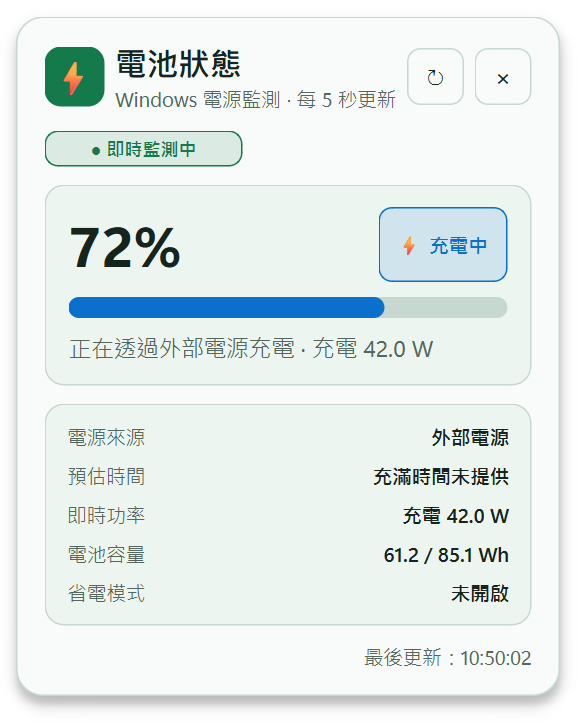
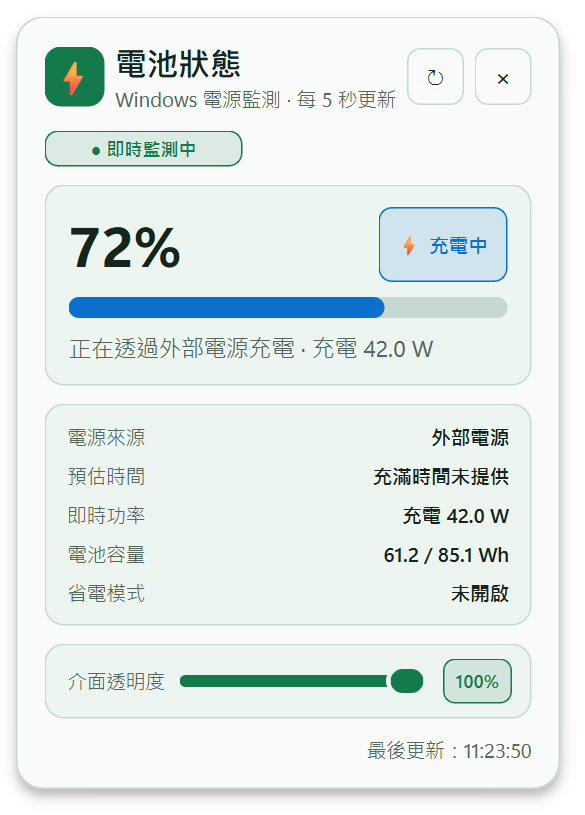
feat: add inline battery widget opacity control

diff --git a/src/battery_usage_widget/widget.py b/src/battery_usage_widget/widget.py
@@ -20,6 +20,7 @@ from PySide6.QtWidgets import (
     QMenu,
     QProgressBar,
     QSizePolicy,
+    QSlider,
     QSystemTrayIcon,
     QToolButton,
     QVBoxLayout,
@@ -30,6 +31,9 @@ from battery_usage_widget.autostart import AutostartManager
 from battery_usage_widget.icon_factory import create_battery_icon
 from battery_usage_widget.models import BatterySnapshot, BatteryState
 from battery_usage_widget.theme import build_stylesheet, is_dark_theme
+
+MIN_OPACITY_PERCENT = 35
+MAX_OPACITY_PERCENT = 100
 
 
 def format_time(seconds: int | None) -> str:
@@ -145,6 +149,7 @@ class FloatingBatteryWidget(QWidget):
         self._snapshot: BatterySnapshot | None = None
         self._quitting = False
         self._position_initialized = False
+        self._opacity_percent = self._load_opacity_setting()
 
         self.setObjectName("FloatingBatteryWidget")
         self.setWindowTitle("電池用量與充電狀態")
@@ -269,6 +274,40 @@ class FloatingBatteryWidget(QWidget):
         self.saver_value = self._add_detail(details_layout, 4, "省電模式")
         self.card_layout.addWidget(details_card)
 
+        transparency_card = QFrame()
+        transparency_card.setObjectName("TransparencyCard")
+        transparency_layout = QHBoxLayout(transparency_card)
+        transparency_layout.setContentsMargins(14, 9, 12, 9)
+        transparency_layout.setSpacing(10)
+        transparency_label = QLabel("介面透明度")
+        transparency_label.setObjectName("TransparencyLabel")
+        self.opacity_slider = QSlider(Qt.Orientation.Horizontal)
+        self.opacity_slider.setRange(MIN_OPACITY_PERCENT, MAX_OPACITY_PERCENT)
+        self.opacity_slider.setValue(self._opacity_percent)
+        self.opacity_slider.setSingleStep(5)
+        self.opacity_slider.setPageStep(10)
+        self.opacity_slider.setTracking(True)
+        self.opacity_slider.setMinimumWidth(125)
+        self.opacity_slider.setMinimumHeight(30)
+        self.opacity_slider.setToolTip("35% 較透明；100% 完全不透明")
+        self.opacity_slider.setAccessibleName("電池狀態介面透明度")
+        self.opacity_slider.setAccessibleDescription(
+            f"可調整為 {MIN_OPACITY_PERCENT}% 到 {MAX_OPACITY_PERCENT}%"
+        )
+        transparency_label.setBuddy(self.opacity_slider)
+        self.opacity_value_label = QLabel(f"{self._opacity_percent}%")
+        self.opacity_value_label.setObjectName("TransparencyValue")
+        self.opacity_value_label.setMinimumWidth(46)
+        self.opacity_value_label.setAlignment(Qt.AlignmentFlag.AlignCenter)
+        self.opacity_value_label.setAccessibleName("目前介面透明度")
+        transparency_layout.addWidget(transparency_label)
+        transparency_layout.addWidget(self.opacity_slider, 1)
+        transparency_layout.addWidget(self.opacity_value_label)
+        self.card_layout.addWidget(transparency_card)
+        self.opacity_slider.valueChanged.connect(
+            lambda value: self._set_opacity_percent(value, persist=True)
+        )
+
         self.updated_label = QLabel("尚未取得資料")
         self.updated_label.setObjectName("Metadata")
         self.updated_label.setAlignment(Qt.AlignmentFlag.AlignRight)
@@ -279,12 +318,18 @@ class FloatingBatteryWidget(QWidget):
         self._save_position_timer.setInterval(250)
         self._save_position_timer.timeout.connect(self._save_geometry)
 
+        self._opacity_sync_timer = QTimer(self)
+        self._opacity_sync_timer.setSingleShot(True)
+        self._opacity_sync_timer.setInterval(300)
+        self._opacity_sync_timer.timeout.connect(self.settings.sync)
+
         self.tray_icon: QSystemTrayIcon | None = None
         self.autostart_action: QAction | None = None
         if enable_tray and QSystemTrayIcon.isSystemTrayAvailable():
             self._create_tray()
 
         self._apply_theme()
+        self._set_opacity_percent(self._opacity_percent, persist=False)
         QGuiApplication.styleHints().colorSchemeChanged.connect(lambda _scheme: self._apply_theme())
 
     @staticmethod
@@ -312,6 +357,9 @@ class FloatingBatteryWidget(QWidget):
     def prepare_quit(self) -> None:
         self._quitting = True
         self._save_geometry()
+        if self._opacity_sync_timer.isActive():
+            self._opacity_sync_timer.stop()
+            self.settings.sync()
         if self.tray_icon:
             self.tray_icon.hide()
 
@@ -402,6 +450,7 @@ class FloatingBatteryWidget(QWidget):
 
     def showEvent(self, event: QShowEvent) -> None:
         super().showEvent(event)
+        self.setWindowOpacity(self._opacity_percent / 100)
         if not self._position_initialized:
             self._restore_or_position()
             self._position_initialized = True
@@ -461,6 +510,31 @@ class FloatingBatteryWidget(QWidget):
                 self.autostart_action.setChecked(not enabled)
                 self.autostart_action.blockSignals(False)
             self.set_error(f"無法變更自動啟動設定：{exc}")
+
+    def _load_opacity_setting(self) -> int:
+        value = self.settings.value("appearance/opacity_percent", MAX_OPACITY_PERCENT)
+        try:
+            parsed = int(value)
+        except (TypeError, ValueError):
+            parsed = MAX_OPACITY_PERCENT
+        return max(MIN_OPACITY_PERCENT, min(MAX_OPACITY_PERCENT, parsed))
+
+    def _set_opacity_percent(self, opacity_percent: int, *, persist: bool) -> None:
+        next_opacity = max(
+            MIN_OPACITY_PERCENT,
+            min(MAX_OPACITY_PERCENT, int(opacity_percent)),
+        )
+        self._opacity_percent = next_opacity
+        if self.opacity_slider.value() != next_opacity:
+            self.opacity_slider.blockSignals(True)
+            self.opacity_slider.setValue(next_opacity)
+            self.opacity_slider.blockSignals(False)
+        self.opacity_value_label.setText(f"{next_opacity}%")
+        self.opacity_value_label.setAccessibleDescription(f"目前為 {next_opacity}%")
+        self.setWindowOpacity(next_opacity / 100)
+        if persist:
+            self.settings.setValue("appearance/opacity_percent", next_opacity)
+            self._opacity_sync_timer.start()
 
     def _update_tray_tooltip(self) -> None:
         if not self.tray_icon or self._snapshot is None:

diff --git a/tests/test_battery_widget.py b/tests/test_battery_widget.py
@@ -2,11 +2,15 @@ from __future__ import annotations
 
 from datetime import UTC, datetime
 
-from PySide6.QtCore import QSettings, Qt
+import pytest
+from PySide6.QtCore import QPoint, QSettings, Qt
+from PySide6.QtWidgets import QStyle, QStyleOptionSlider
 
 from battery_usage_widget.autostart import VALUE_NAME, AutostartManager
 from battery_usage_widget.models import BatterySnapshot, BatteryState
 from battery_usage_widget.widget import (
+    MAX_OPACITY_PERCENT,
+    MIN_OPACITY_PERCENT,
     FloatingBatteryWidget,
     format_capacity,
     format_power,
@@ -99,6 +103,70 @@ def test_widget_distinguishes_charging_and_no_battery(qtbot, tmp_path) -> None:
     assert widget.percent_label.text() == "--%"
     assert widget.state_badge.text() == "○ 未偵測到電池"
     assert "沒有偵測到" in widget.summary_label.text()
+
+
+def test_inline_opacity_control_updates_and_persists(qtbot, tmp_path) -> None:
+    settings_path = tmp_path / "settings.ini"
+    settings = QSettings(str(settings_path), QSettings.Format.IniFormat)
+    settings.setValue("appearance/opacity_percent", 70)
+    autostart = AutostartManager(FakeRegistry(), executable="battery.exe", frozen=False)
+    widget = FloatingBatteryWidget(settings, autostart, enable_tray=False)
+    qtbot.addWidget(widget)
+    widget.show()
+
+    assert widget.opacity_slider.isVisible()
+    assert widget.opacity_slider.minimum() == MIN_OPACITY_PERCENT
+    assert widget.opacity_slider.maximum() == MAX_OPACITY_PERCENT
+    assert widget.opacity_slider.value() == 70
+    assert widget.opacity_value_label.text() == "70%"
+    assert widget.windowOpacity() == pytest.approx(0.7, abs=1 / 255)
+    assert widget.opacity_slider.accessibleName() == "電池狀態介面透明度"
+
+    widget.opacity_slider.setValue(55)
+    assert widget.opacity_value_label.text() == "55%"
+    assert widget.windowOpacity() == pytest.approx(0.55, abs=1 / 255)
+    assert settings.value("appearance/opacity_percent", type=int) == 55
+
+
+def test_invalid_opacity_setting_is_clamped(qtbot, tmp_path) -> None:
+    settings = QSettings(str(tmp_path / "settings.ini"), QSettings.Format.IniFormat)
+    settings.setValue("appearance/opacity_percent", 5)
+    autostart = AutostartManager(FakeRegistry(), executable="battery.exe", frozen=False)
+    widget = FloatingBatteryWidget(settings, autostart, enable_tray=False)
+    qtbot.addWidget(widget)
+
+    assert widget.opacity_slider.value() == MIN_OPACITY_PERCENT
+    assert widget.windowOpacity() == pytest.approx(MIN_OPACITY_PERCENT / 100, abs=1 / 255)
+
+
+def test_inline_opacity_slider_can_be_dragged(qtbot, tmp_path) -> None:
+    settings = QSettings(str(tmp_path / "settings.ini"), QSettings.Format.IniFormat)
+    autostart = AutostartManager(FakeRegistry(), executable="battery.exe", frozen=False)
+    widget = FloatingBatteryWidget(settings, autostart, enable_tray=False)
+    qtbot.addWidget(widget)
+    widget.show()
+    qtbot.waitUntil(lambda: widget.opacity_slider.width() > 100)
+
+    slider = widget.opacity_slider
+    slider.setValue(MAX_OPACITY_PERCENT)
+    option = QStyleOptionSlider()
+    slider.initStyleOption(option)
+    handle = slider.style().subControlRect(
+        QStyle.ComplexControl.CC_Slider,
+        option,
+        QStyle.SubControl.SC_SliderHandle,
+        slider,
+    )
+    start = handle.center()
+    finish = QPoint(12, start.y())
+
+    qtbot.mousePress(slider, Qt.MouseButton.LeftButton, pos=start)
+    qtbot.mouseMove(slider, pos=finish, delay=20)
+    qtbot.mouseRelease(slider, Qt.MouseButton.LeftButton, pos=finish)
+
+    assert slider.value() <= 45
+    assert widget.windowOpacity() == pytest.approx(slider.value() / 100, abs=1 / 255)
+    assert settings.value("appearance/opacity_percent", type=int) == slider.value()
 
 
 def test_close_without_tray_requests_exit(qtbot, tmp_path) -> None:

diff --git a/src/battery_usage_widget/theme.py b/src/battery_usage_widget/theme.py
@@ -103,7 +103,7 @@ def build_stylesheet(dark: bool) -> str:
             border-radius: 10px;
             padding: 9px;
         }}
-        QFrame#BatteryCard, QFrame#DetailsCard {{
+        QFrame#BatteryCard, QFrame#DetailsCard, QFrame#TransparencyCard {{
             background: {token.surface_alt};
             border: 1px solid {token.outline};
             border-radius: 13px;
@@ -140,6 +140,43 @@ def build_stylesheet(dark: bool) -> str:
         QLabel#Summary {{ color: {token.on_surface_muted}; font-size: 11pt; }}
         QLabel#DetailLabel {{ color: {token.on_surface_muted}; font-size: 10pt; }}
         QLabel#DetailValue {{ font-size: 10pt; font-weight: 600; }}
+        QLabel#TransparencyLabel {{
+            color: {token.on_surface_muted};
+            font-size: 10pt;
+        }}
+        QLabel#TransparencyValue {{
+            color: {token.normal};
+            background: {normal_soft};
+            border: 1px solid {token.normal};
+            border-radius: 8px;
+            padding: 3px 6px;
+            font-size: 9pt;
+            font-weight: 600;
+        }}
+        QSlider::groove:horizontal {{
+            height: 8px;
+            border-radius: 4px;
+            background: {token.outline};
+        }}
+        QSlider::sub-page:horizontal {{
+            border-radius: 4px;
+            background: {token.normal};
+        }}
+        QSlider::add-page:horizontal {{
+            border-radius: 4px;
+            background: {token.outline};
+        }}
+        QSlider::handle:horizontal {{
+            width: 22px;
+            margin: -7px 0;
+            border: 3px solid {token.surface_alt};
+            border-radius: 11px;
+            background: {token.normal};
+        }}
+        QSlider:focus {{
+            border: 2px solid {token.focus};
+            border-radius: 6px;
+        }}
         QProgressBar#BatteryProgress {{
             min-height: 14px;
             max-height: 14px;
